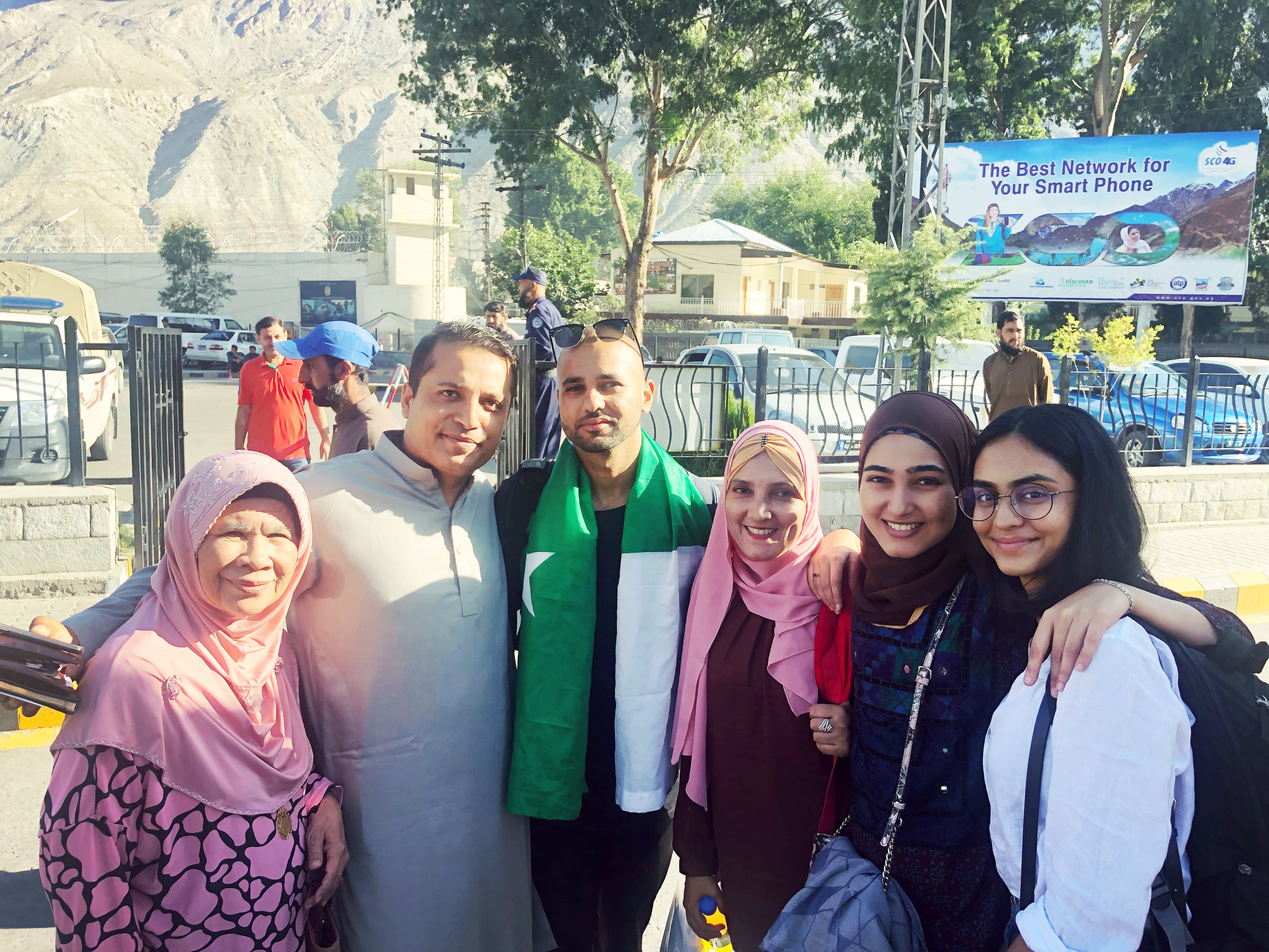
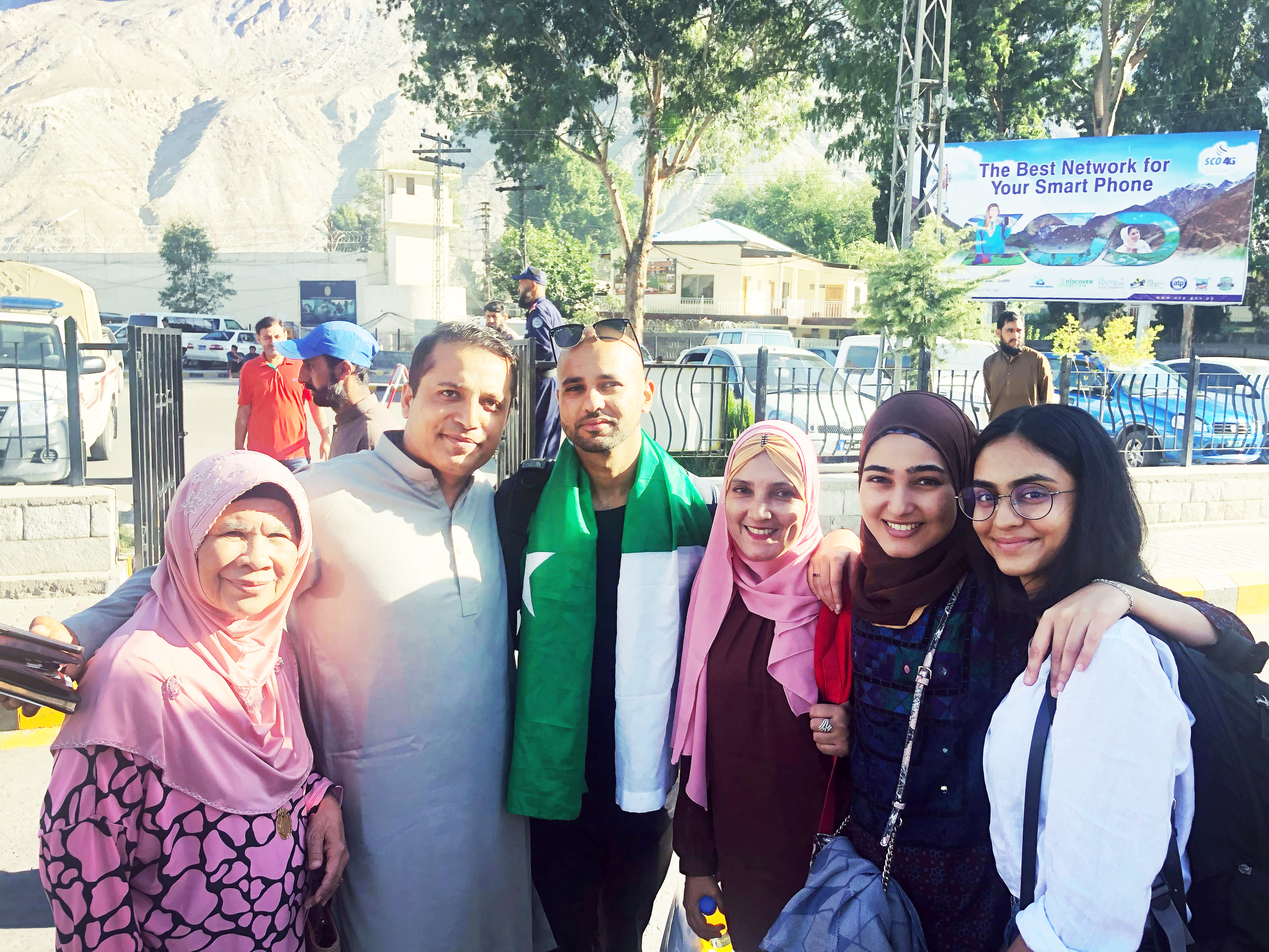
changes

diff --git a/gallery.html b/gallery.html
@@ -83,7 +83,7 @@
 <section>
   <div class="w3-content w3-display-container slider data-aos " data-aos="fade-in" id="div1">
       <div class="w3-display-container mySlides photo2">
-          <img src="resources/img2/g1.jpg"  style="width:100%" alt= "Gilgit airport baltistan pakistan with a group of travelers">
+          <img src="resources/img2/m6.jpg"  style="width:100%" alt= "Gilgit airport baltistan pakistan with a group of travelers">
         </div>
         <div class="w3-display-container mySlides fade2">
             <img src="resources/img2/m2.jpg" style="width:100%" alt="posing on Karakoram highway overlooking passu cones hunza valley pakistan">
@@ -249,7 +249,7 @@
           
         </div> <br> <hr>
         <div class="headingP">
-                        <a class="btn btn-full js--scroll-to-plans discover gallery" href="discover.html"> Discover Pakistan</a>
+                        <a class="btn btn-full js--scroll-to-plans discover gallery" href="upcoming.html">Upcoming Trips</a>
                 </div>
 </section>
 

diff --git a/discover.html b/discover.html
@@ -151,7 +151,7 @@
 							 <img src="resources/img/special.jpg" alt="Attabad Lake in Gojal Valley, Hunza, Gilgit Baltistan" style="width:100%">
 					</div>
 					<div class="w3-display-container mySlides fade2">
-							<img src="resources/img/hBridge.jpg" alt="Hussaini Hanging Bridge, crossing Borit Lake in the Upper Hunza Northern Pakistan" style="width:100%">
+							<img src="resources/img/hBridge.png" alt="Hussaini Hanging Bridge, crossing Borit Lake in the Upper Hunza Northern Pakistan" style="width:100%">
 						</div>
 						<div class="w3-display-container mySlides fade2">
 								<img src="resources/img/kkh1.jpg" alt="Karakoram Highway in Gilgit-Baltistan Northern Pakistan, bus overlooking mountains" style="width:100%">

diff --git a/resources/css/style.css b/resources/css/style.css
@@ -803,7 +803,7 @@
     letter-spacing: 0px;
     text-transform: capitalize;
     color: #006400;
-    margin-top: 0;
+    margin-top: 150px;
   }
   
   .discoverPakistan {
@@ -1143,13 +1143,6 @@
   .specialHeading h2 {
    background-color:  #ffffcc;;
 
-  }
-
-   /* ----------------------------------------------- */
-  /* Discover Page */ 
-  /* ----------------------------------------------- */
-  .discoverPakistan {
-      margin-top: 50px;
   }
 
 
@@ -1972,7 +1965,10 @@ a:not([href]):not([tabindex]) {
     }
 
 
-
+    /* discover page  */
+    .discoverPakistan h1 {
+        margin-top:50px;
+    }
 
 
 

diff --git a/index.html b/index.html
@@ -44,7 +44,7 @@
 								<img src="resources/img/logo3.jpg" alt="IK Pakistan Tours Logo" class="logo"></a>
 							</div></a>
 							<ul class="nav-links">
-								<li><a class="js--scroll-to-tours" href="gallery.html">Gallery </a>
+								<li><a class="js--scroll-to-tours" href="upcoming.html">Upcoming </a>
 									<!-- <ul>
 										<li><a href="#">Adventure </a></li>
 										<li><a href="#">Historic</a></li>
